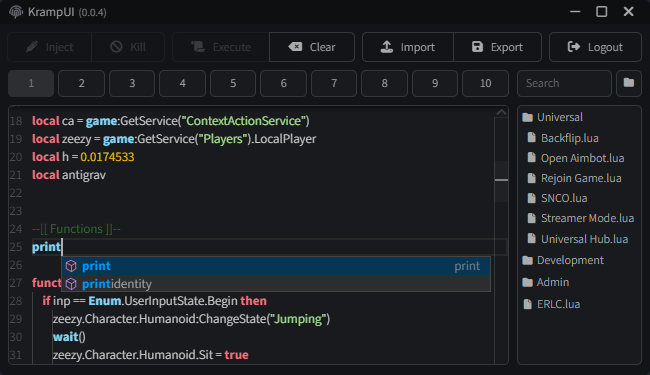
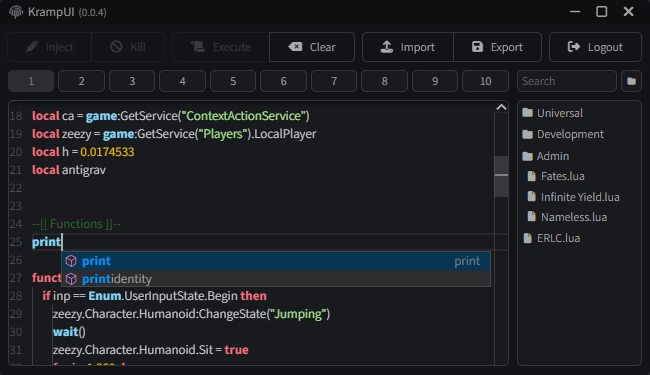
minor ui tweaks

diff --git a/src/assets/styles.css b/src/assets/styles.css
@@ -357,7 +357,7 @@ body.kr-maximized .kr-titlebar {
 }
 
 .exploit > .main > * {
-    height: calc(100vh - 24px - 28px - 24px - 4px);
+    height: calc(100vh - 30px - 22px - 27px);
     border: 1px solid var(--lighter);
     border-radius: 5px;
     box-sizing: border-box;
@@ -385,7 +385,7 @@ body.kr-maximized .kr-titlebar {
     justify-content: center;
     background-color: var(--light);
     border: 1px solid var(--lighter);
-    padding: 0.25rem;
+    padding: 0.1rem;
     font-size: 0.75rem;
     border-radius: 5px;
     box-sizing: border-box;
@@ -424,7 +424,7 @@ body.kr-maximized .kr-titlebar {
 
 .exploit > .main > .container-2 > .script-header > .search {
     font-size: 0.75rem;
-    padding: 0.25rem 0.5rem;
+    padding: 0.1rem 0.25rem;
     box-sizing: border-box;
     width: 100%;
     height: fit-content;
@@ -434,9 +434,9 @@ body.kr-maximized .kr-titlebar {
     display: flex;
     align-items: center;
     justify-content: center;
-    font-size: 0.65rem;
+    font-size: 0.5rem;
     padding: 0.25rem;
-    width: 2rem;
+    width: 1.5rem;
     box-sizing: border-box;
     background-color: var(--light);
     border: 1px solid var(--lighter);
